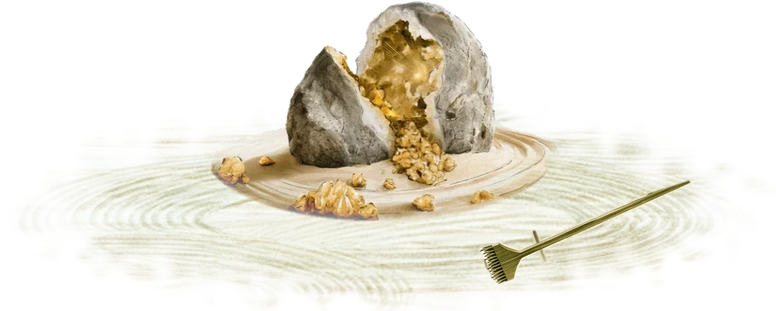
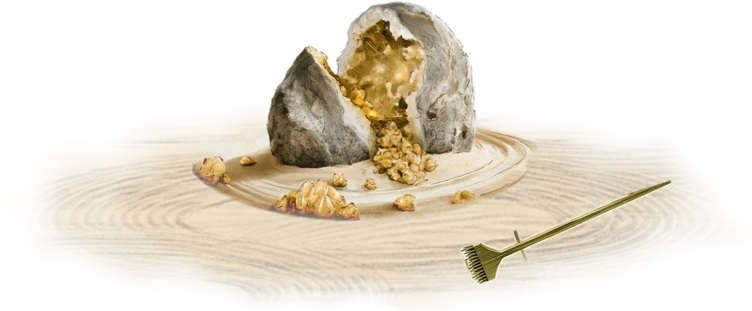
deck (R-D80): slide 6 geode scene: all sand the geode's colour, softer organic edge, bigger, rebalanced; slide 10 rows full width

Changed region(s): [[0.0612, 0.0, 0.9176, 0.9839], [0.7035, 0.8682, 0.734, 0.926], [0.7952, 0.463, 0.8258, 0.492]]

diff --git a/api/src/app/deck/page.tsx b/api/src/app/deck/page.tsx
@@ -139,11 +139,11 @@ const CSS = `
 .deck .ebl { position:absolute; left:calc(var(--u)*4); top:calc(var(--u)*4); width:calc(var(--u)*9); height:auto; z-index:1; }
 /* R-D65 slide 6: three lines; the four concept plants, a stake beside each (the garden's own sprite + lettering, STAKE in
    model/garden2.ts); the hand + Seeker bottom right, at most a third of the width */
-.deck .geode-scene { position:absolute; left:calc(var(--u)*13); bottom:calc(var(--u)*1.4); width:calc(var(--u)*32); height:auto; }   /* R-D77: the geode, raked sand + rake, feathered into the paper */
+.deck .geode-scene { position:absolute; left:calc(var(--u)*12); bottom:calc(var(--u)*2.6); width:calc(var(--u)*38); height:auto; }   /* R-D77: the geode, raked sand + rake, feathered into the paper */
 .deck #s6 .steps.g6 { max-width:calc(var(--u)*72); } .deck #s6 .steps.g6 li { font-size:calc(var(--u)*2.1); }
-.deck #s10 .rows { max-width:calc(var(--u)*60); }
+.deck #s10 .rows { max-width:none; }
 .deck #s10 .row { grid-template-columns:calc(var(--u)*20) 1fr; }
-.deck #s10 .plants { left:auto; right:calc(var(--u)*6.6); width:calc(var(--u)*27); bottom:calc(var(--u)*3.6); top:auto;
+.deck #s10 .plants { left:auto; right:calc(var(--u)*6.6); width:calc(var(--u)*27); bottom:calc(var(--u)*2.2); top:auto;
   grid-template-columns:repeat(4, 1fr); column-gap:calc(var(--u)*1); row-gap:calc(var(--u)*.8); }
 .deck #s10 .plants .pnote { justify-self:end; font-size:calc(var(--u)*1.05); color:var(--muted); }
 .deck #s10 .plants figure { grid-row:2; }
